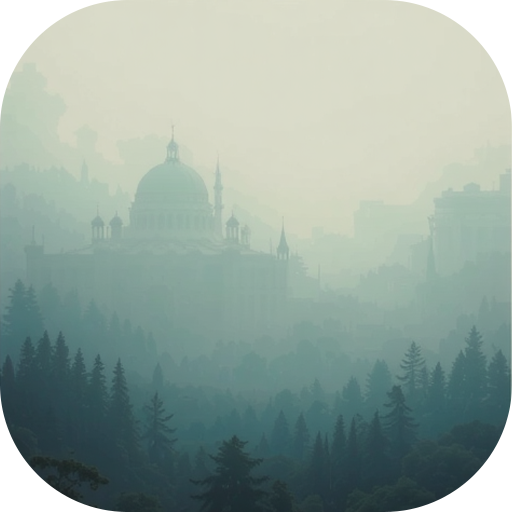
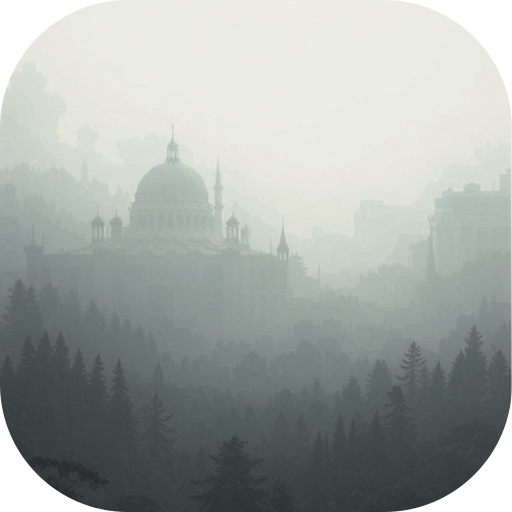
Tweaks and preview image

Changed region(s): [[0.0312, 0.0, 1.0, 0.4375]]

diff --git a/README.md b/README.md
@@ -1,5 +1,7 @@
 # Foggy Minimal Light Theme
 
-A light theme that mimics the palette of a foggy morning.
+A light low-contrast theme that mimics the palette of a foggy morning.
 
-## Change Log
+## Preview
+
+![preview image 1](https://live.staticflickr.com/65535/54336284807_873fb4efa8_b.jpg)
